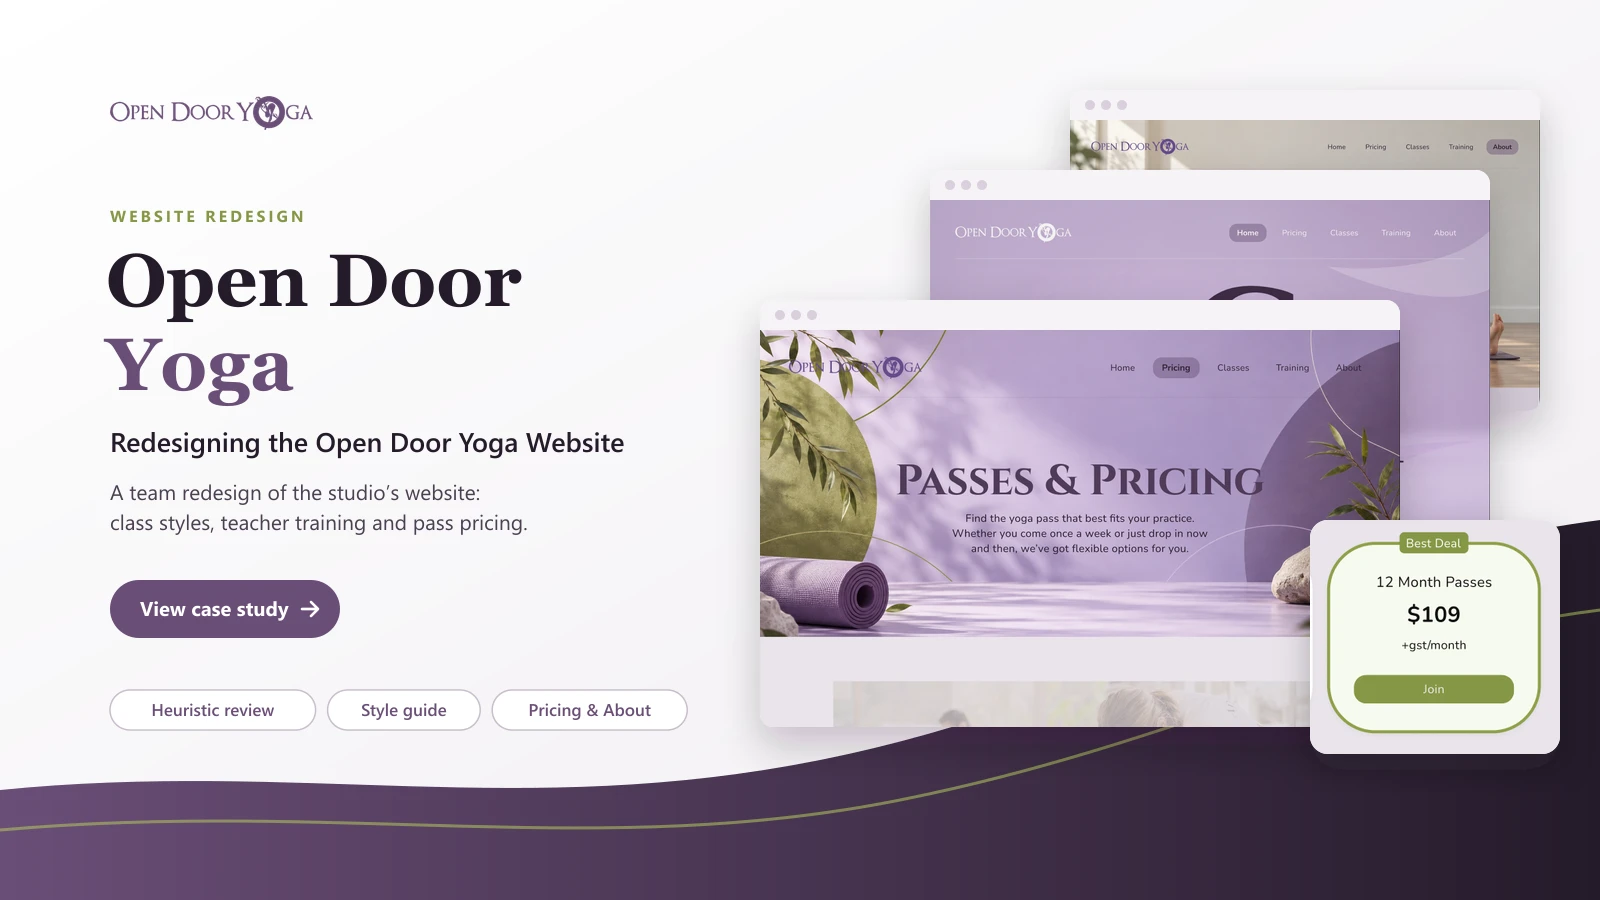
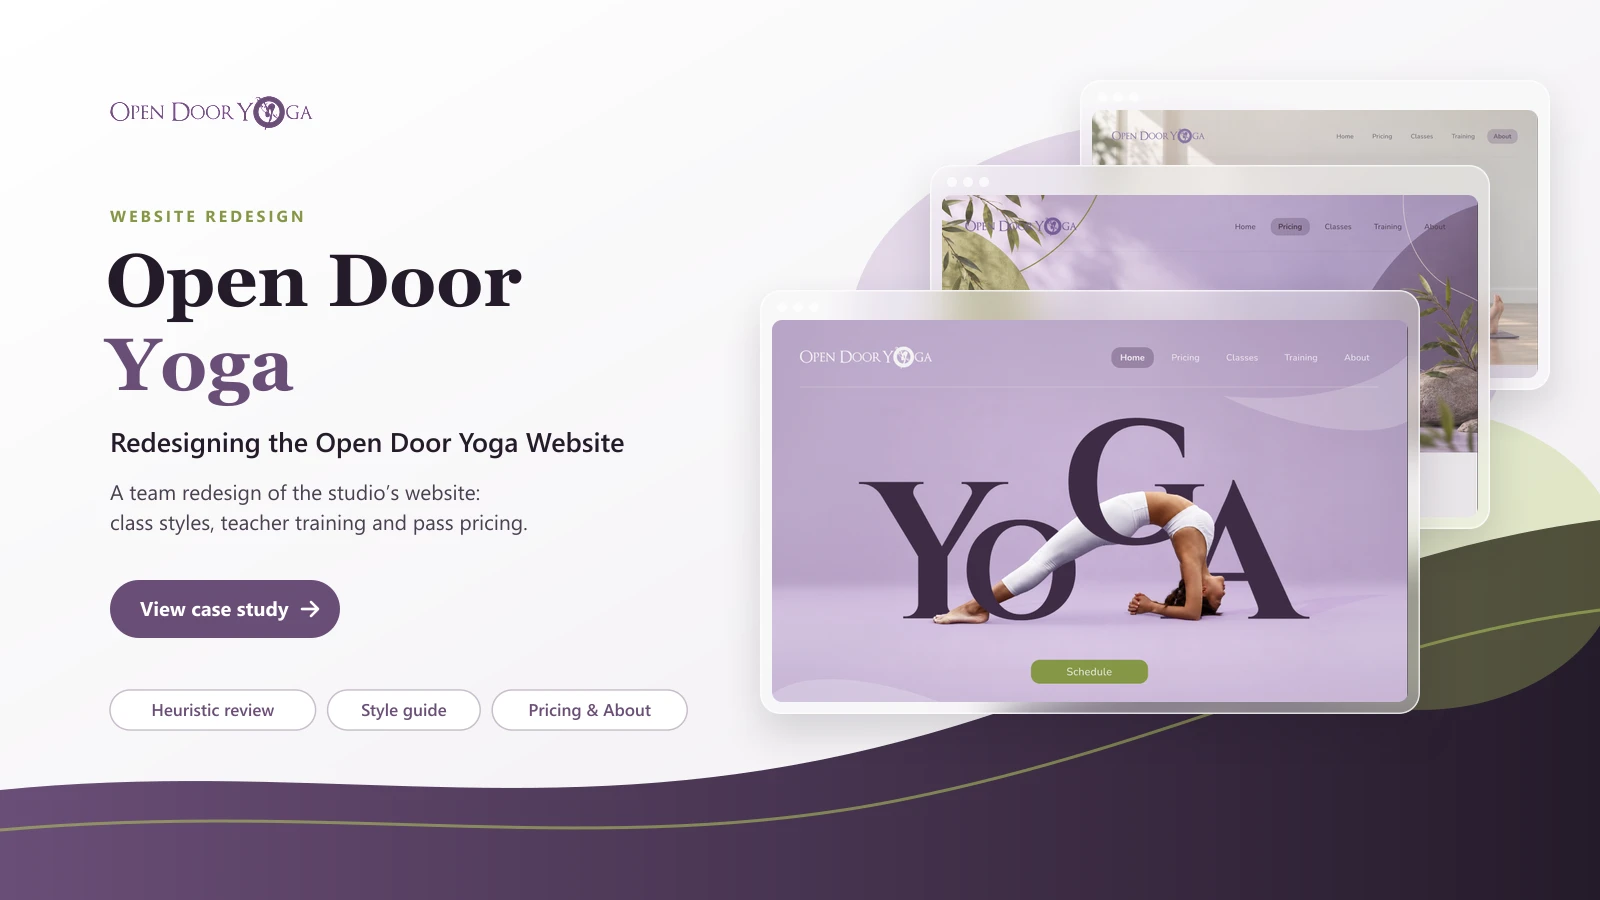
Open Door Yoga cover: glass windows, Home in front, dark version
The pages sit in frosted glass frames that blur what's behind them, the back
pages partly see-through; the Home page is in front and the pass card is gone.
'node scripts/build-yoga-cover.mjs dark' builds yoga-cover-dark.webp.

Changed region(s): [[0.4688, 0.0933, 1.0, 0.84]]

diff --git a/src/data/projects.ts b/src/data/projects.ts
@@ -1054,8 +1054,8 @@ export const projects: Project[] = glueAll<Project[]>([
     team: '3 designers',
     tools: ['Figma', 'html.to.design'],
     // cover: built by scripts/build-yoga-cover.mjs from the redesigned pages
-    thumbnail: img('yoga-cover', 'Open Door Yoga cover: the title, "Redesigning the Open Door Yoga Website" and a View case study button beside the redesigned About, Home and Pricing pages stacked as browser windows, with the 12 Month Pass card in front, over a violet wave.', undefined, 1600, 900),
-    hero: img('yoga-cover', 'Open Door Yoga cover: the title, "Redesigning the Open Door Yoga Website" and a View case study button beside the redesigned About, Home and Pricing pages stacked as browser windows, with the 12 Month Pass card in front, over a violet wave.', undefined, 1600, 900),
+    thumbnail: img('yoga-cover', 'Open Door Yoga cover: the title, "Redesigning the Open Door Yoga Website" and a View case study button beside the redesigned About, Pricing and Home pages stacked as frosted glass windows, the Home page in front, over a violet wave.', undefined, 1600, 900),
+    hero: img('yoga-cover', 'Open Door Yoga cover: the title, "Redesigning the Open Door Yoga Website" and a View case study button beside the redesigned About, Pricing and Home pages stacked as frosted glass windows, the Home page in front, over a violet wave.', undefined, 1600, 900),
     theme: { accent: '#6A4E77', ink: '#2E2E2E', surface: '#F0EDF1' },
     tldr: [
       { label: 'Problem', text: 'A heuristic review of the studio’s site found prices, schedules and key details hard to find and scan.' },
